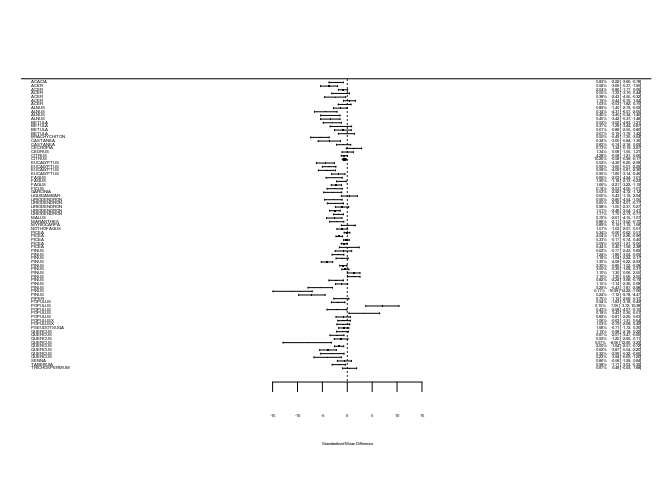
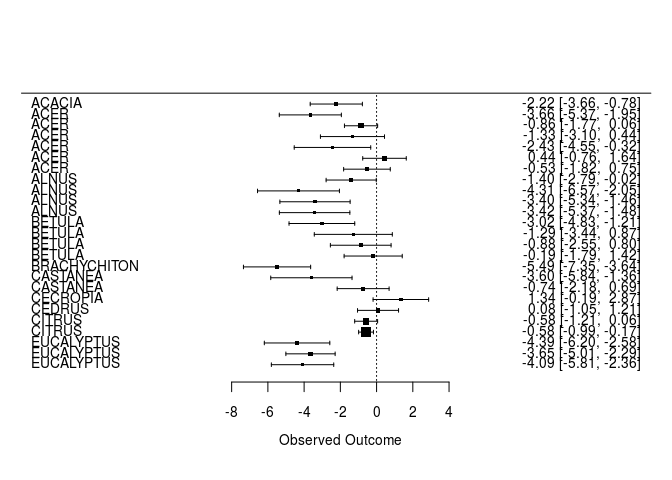
more updates

diff --git a/pages/Day1.md b/pages/Day1.md
@@ -1,8 +1,8 @@
 Day 1: Calculating effect sizes
 ================
 
-Download some data
-------------------
+Download data
+-------------
 
 For this exercise, we'll be using the Curtis et al. (1999) data set that contains gas exchange observations (i.e. photosynthesis)
 of 65 tree species. This data has been extracted from 84 papers and includes mean, standard deviation, coefficient of variation, and number of observations for elevated and ambient levels of C02.
@@ -136,6 +136,9 @@ str(curtis_ES)
 Visualize effect sizes (part I) : forest plots
 ----------------------------------------------
 
+Please note that the first 25 observations are presented for visualization reasons. If you want to look at all effect sizes,
+use the name of the larger data frame ('hedges\_PN') in the 'forest' function.
+
 ``` r
 require(metafor,quietly = TRUE)
 require(dplyr,quietly=TRUE)
@@ -159,13 +162,17 @@ require(dplyr,quietly=TRUE)
 ``` r
 hedges_PN<-filter(curtis_ES, PARAM=="PN")
 hedges_PN<-arrange(hedges_PN, GENUS)
-forest(hedges_PN$Hedges_D,hedges_PN$Hedges_var, slab=hedges_PN$GENUS, showweights=TRUE)
+hedges_PNN<-hedges_PN[1:25,]  # not necessary
+
+forest(hedges_PNN$Hedges_D,hedges_PNN$Hedges_var, slab=hedges_PNN$GENUS, showweights=FALSE)
 ```
 
 ![](Day1_files/figure-markdown_github-ascii_identifiers/forestplot-1.png)
 
 Visualize effect sizes (part II): explore moderators
 ----------------------------------------------------
+
+Another alternative for looking at effect sizes per group would be using histograms or density distributions.
 
 ``` r
 require(metafor,quietly = TRUE)
@@ -176,12 +183,12 @@ require(ggplot2)
     ## Loading required package: ggplot2
 
 ``` r
-hedges_PN<-filter(curtis_ES, PARAM=="PN")
 hedges_PN$SE<-sqrt(hedges_PN$Hedges_var)
 
 dodge <- position_dodge(width=1)
 
 ggplot(hedges_PN, aes(x=DIV2, y=Hedges_D, colour=DIV2)) + 
+    geom_hline(yintercept=0,color="red")+
     #geom_errorbar(aes(ymin=Hedges_D-SE, ymax=Hedges_D+SE), width=.1,position=dodge) +
     geom_point(position=dodge)+ labs(x="Plant group", y="Effect size")+
      guides(fill=FALSE,colour=guide_legend(title="Plant group",title.position = "top"))+
@@ -192,6 +199,8 @@ ggplot(hedges_PN, aes(x=DIV2, y=Hedges_D, colour=DIV2)) +
 ![](Day1_files/figure-markdown_github-ascii_identifiers/forestplott-1.png)
 
 ### LRR: water-use efficiency
+
+The log-response ratio is a commonly used effect size and -- once backtransformed -- is thought to be easier for readers to understand (e.g. the mean effect size is 10% greater than the control).
 
 ``` r
 require(metafor,quietly = TRUE)
@@ -257,3 +266,5 @@ forest(LRR_WUE$LRR,LRR_WUE$LRR_var, slab=LRR_WUE$GENUS, showweights=TRUE)
 ```
 
 ![](Day1_files/figure-markdown_github-ascii_identifiers/forestplot2-1.png)
+
+Note that the next to each effect size is the weight of each point.

diff --git a/index.md b/index.md
@@ -7,9 +7,38 @@ title: Exercises for 'Meta-analysis in biological and environmental sciences'
 The present site is the starting point for the exercises in R that we will be using  
 to get our hands dirty and put into action topics that we have discussed in our lectures.  
 
+### Before our course  
+
+1. Install [R]() and [RStudio]().  
+2. Install the following packages:
+
+```
+install.packages(c("metafor","compute.es","ggplot2","dplyr","reshape2","broom","tidyr"),quietly=TRUE)
+```
+3. If you already have R installed, please update it to the latest version 
+
+```
+
+install.packages('installr')
+
+updateR()
+
+```
+
+4. Update your packages to the latest version as well
+
+```
+update.packages()
+```
+
+### Course schedule
+
 [Day 1: Calculating effect sizes](pages/Day1.html)  
 [Day 2: Hierarchical meta-analytical models](pages/Day2.html)  
 [Day 3: Assumptions, biases and confounding effects](pages/Day3.html)  
 [Day 4: Methodological issues, advances, and common mistakes](pages/Day4.html)  
 
-We'll mostly use the 'metafor' package in R: [metafor](http://www.metafor-project.org/doku.php)  
+### Additional resources
+
+
+[metafor](http://www.metafor-project.org/doku.php)  
